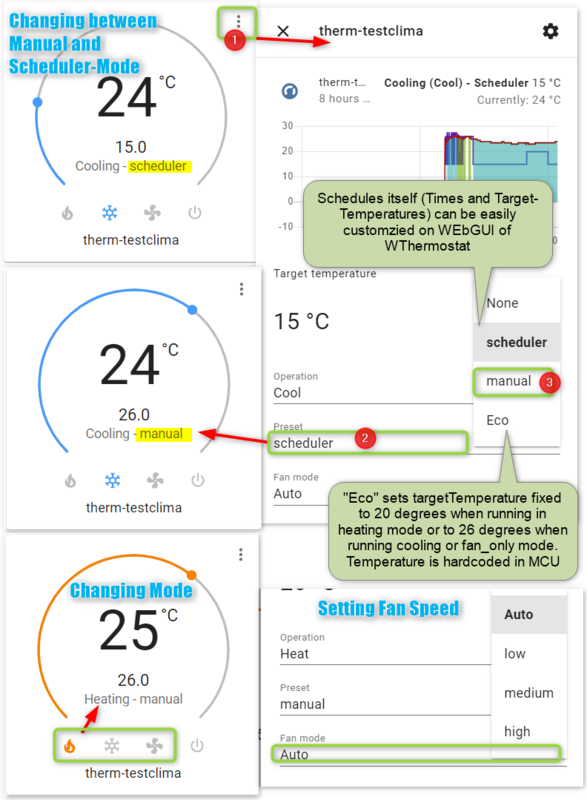
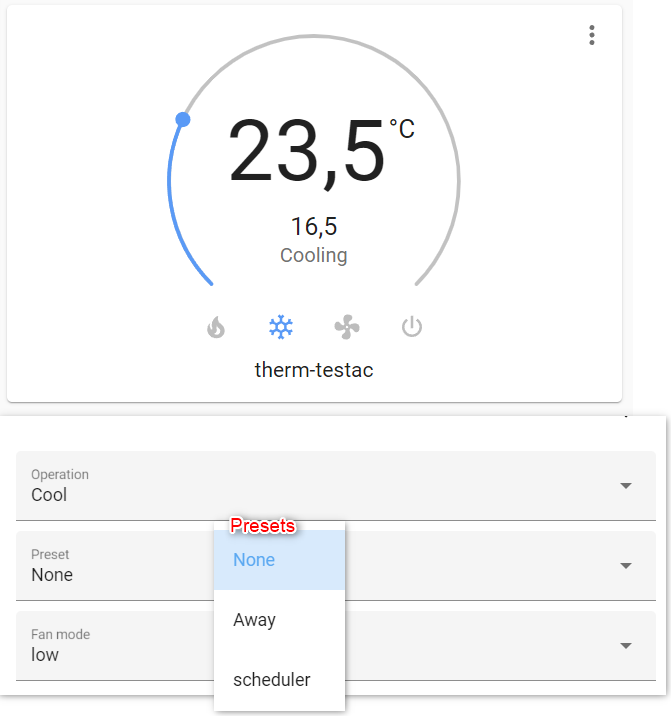
1.21
* reimplemented Away-Mode with Preset (Heating and A/C)
* fixed scheduler-Mode with Preset 'Scheduler' (A/C)
* updated docs and samples

diff --git a/WThermostat/WBecaDevice.h b/WThermostat/WBecaDevice.h
@@ -51,8 +51,10 @@ const static char MQTT_HASS_AUTODISCOVERY_CLIMATE[]         PROGMEM = R"=====(
 "temp_stat_tpl":"{{value_json.targetTemperature}}",
 "curr_temp_t":"~/stat/things/thermostat/properties",
 "curr_temp_tpl":"{{value_json.temperature}}",
-"pl_on":true,
-"pl_off":false,
+"pr_mode_cmd_t":"~/cmnd/things/thermostat/properties/preset",
+"pr_mode_stat_t":"~/stat/things/thermostat/properties",
+"pr_mode_val_tpl":"{{value_json.preset}}",
+"pr_modes":["away"],
 "min_temp":5,
 "max_temp":"35",
 "temp_step":"%s",
@@ -81,12 +83,10 @@ const static char MQTT_HASS_AUTODISCOVERY_AIRCO[]         PROGMEM = R"=====(
 "fan_mode_cmd_t":"~/cmnd/things/thermostat/properties/fanMode",
 "fan_mode_stat_t":"~/stat/things/thermostat/properties",
 "fan_mode_stat_tpl":"{{value_json.fanMode}}",
-"hold_cmd_t":"~/cmnd/things/thermostat/properties/holdState",
-"hold_stat_t":"~/stat/things/thermostat/properties",
-"hold_stat_tpl":"{{value_json.holdState}}",
-"hold_modes":["scheduler","manual","eco"],
-"pl_on":true,
-"pl_off":false,
+"pr_mode_cmd_t":"~/cmnd/things/thermostat/properties/preset",
+"pr_mode_stat_t":"~/stat/things/thermostat/properties",
+"pr_mode_val_tpl":"{{value_json.preset}}",
+"pr_modes":["away", "scheduler"],
 "min_temp":"10",
 "max_temp":"35",
 "temp_step":"%s",
@@ -178,6 +178,9 @@ const char* MODE_AUTO PROGMEM = "auto";
 const char* MODE_HEAT PROGMEM = "heat";
 const char* MODE_COOL PROGMEM = "cool";
 const char* MODE_FAN  PROGMEM = "fan_only";
+const char* PRESET_NONE PROGMEM = "none";
+const char* PRESET_AWAY PROGMEM = "away";
+const char* PRESET_SCHEDULER PROGMEM = "scheduler";
 const char* ACTION_OFF  PROGMEM = "off";
 const char* ACTION_COOLING  PROGMEM = "cooling";
 const char* ACTION_HEATING  PROGMEM = "heating";
@@ -227,6 +230,8 @@ const char* PROP_FANMODE PROGMEM = "fanMode";
 const char* TITL_FANMODE PROGMEM = "Fan";
 const char* PROP_MODE PROGMEM = "mode";
 const char* TITL_MODE PROGMEM = "Mode";
+const char* PROP_PRESET PROGMEM = "preset";
+const char* TITL_PRESET PROGMEM = "Preset";
 const char* PROP_ACTION PROGMEM = "action";
 const char* TITL_ACTION PROGMEM = "Action";
 const char* PROP_STATE PROGMEM = "state";
@@ -236,6 +241,7 @@ const char* PROP_MCUID PROGMEM = "mcuId";
 const char* ATTYPE_SCHEDULESMODE PROGMEM = "ThermostatSchedulesModeProperty";
 const char* ATTYPE_HOLDSTATE PROGMEM = "ThermostatHoldStateProperty";
 const char* ATTYPE_MODE PROGMEM = "ThermostatModeProperty";
+const char* ATTYPE_PRESET PROGMEM = "ThermostatPresetProperty";
 const char* ATTYPE_FANMODE PROGMEM = "FanModeProperty";
 const char* ATTYPE_ACTION PROGMEM = "ThermostatActionProperty";
 const char* ATTYPE_HEATINGCOOLING PROGMEM = "HeatingCoolingProperty";
@@ -489,6 +495,19 @@ public:
 		this->mode->setOnValueRequest([this](WProperty* p) {updateModeAndAction();});
 		this->mode->setMqttSendChangedValues(true);
     	this->addProperty(mode);
+
+		this->preset = new WProperty(PROP_PRESET, TITL_PRESET, STRING);
+		this->preset->setVisibility(ALL);
+		this->preset->setAtType(ATTYPE_PRESET); 
+		this->preset->addEnumString(PRESET_NONE);
+		this->preset->addEnumString(PRESET_AWAY);
+		if (getThermostatModel() == MODEL_BAC_002_ALW) {
+			this->preset->addEnumString(PRESET_SCHEDULER);
+		}
+		this->preset->setOnChange(std::bind(&WBecaDevice::presetToMcu, this, std::placeholders::_1));
+		this->preset->setOnValueRequest([this](WProperty* p) {updatePreset();});
+		this->preset->setMqttSendChangedValues(true);
+		this->addProperty(preset);
 
 		this->action = new WProperty(PROP_ACTION, TITL_ACTION, STRING);
 		this->action->setAtType(ATTYPE_ACTION); 
@@ -1416,6 +1435,7 @@ private:
     WProperty* actualTemperature;
     WProperty* actualFloorTemperature;
 	WProperty* mode;
+	WProperty* preset;
 	WProperty* action;
 	WProperty* schedulesMode;
 	WProperty* holdState;
@@ -2077,6 +2097,26 @@ private:
 		}
 	}
 
+
+	void presetToMcu(WProperty* property) {
+		network->log()->trace(F("presetToMcu %s"), property->c_str());
+		if (this->mode->equalsString(MODE_OFF)){
+			//noop
+		} else if (this->preset->equalsString(PRESET_AWAY)){
+			this->ecoMode->setBoolean(true);
+		} else if (getThermostatModel() == MODEL_BAC_002_ALW && this->preset->equalsString(PRESET_SCHEDULER)){
+			this->ecoMode->setBoolean(false);
+			this->schedulesMode->setString(SCHEDULES_MODE_AUTO);
+			this->holdState->setString(HOLD_STATE_SCHEDULER);
+		} else {
+			this->ecoMode->setBoolean(false);
+			if (getThermostatModel() == MODEL_BAC_002_ALW){
+				this->schedulesMode->setString(SCHEDULES_MODE_OFF);
+				this->holdState->setString(HOLD_STATE_MANUAL);
+			}
+		}
+	}
+
     void updateModeAndAction() {
 		if (!this->deviceOn->getBoolean()){
 			this->mode->setString(MODE_OFF);
@@ -2116,6 +2156,17 @@ private:
 			if (this->state->equalsString(STATE_OFF)){
 				this->action->setString(ACTION_IDLE);
 			} else this->action->setString(ACTION_HEATING);
+		}
+	}
+
+
+	void updatePreset() {
+		if (this->ecoMode->getBoolean()){
+			this->preset->setString(PRESET_AWAY);
+		} else if (getThermostatModel() == MODEL_BAC_002_ALW && this->schedulesMode->equalsString(SCHEDULES_MODE_AUTO)){
+			this->preset->setString(PRESET_SCHEDULER);
+		} else {
+			this->preset->setString(PRESET_NONE);
 		}
 	}
 

diff --git a/README.md b/README.md
@@ -154,9 +154,15 @@ Live WebLog Screen:
 
 ## Integration in Home Assistant
 
-![homeassistant](docs/images/homeassistant.png)  ![hass_discovery](docs/images/hass_discovery.png)
+![homeassistant](docs/images/homeassistant.png)
+![homeassistant](docs/images/hass_detail.png)
+![hass_discovery](docs/images/hass_discovery.png)
 
 ### Controlling BAC in HomeAssistant
+
+* Use Operation to Switch between 'heat', 'cool', 'fan_only' and 'off'
+* Use Preset to switch between 'None' (manual), 'Scheduler' and 'eco'
+* Changing temp disables scheduler and switches to preset 'None'
 
 ![homeassistant](docs/images/hass-bac.png)
 
@@ -213,15 +219,14 @@ climate:
     temperature_state_template: "{{value_json.targetTemperature}}"
     current_temperature_topic: "home/room/stat/things/thermostat/properties"
     current_temperature_template: "{{value_json.temperature}}"
-    away_mode_command_topic: "home/room/cmnd/things/thermostat/properties/ecoMode"
-    away_mode_state_topic: "home/room/stat/things/thermostat/properties"
-    away_mode_state_template: "{{value_json.ecoMode}}"
     mode_command_topic: "home/room/cmnd/things/thermostat/properties/mode"
     mode_state_topic: "home/room/stat/things/thermostat/properties"
     mode_state_template: "{{value_json.mode}}"
-    payload_on: true
-    payload_off: false
     modes: [ "heat", "auto", "off" ]
+    preset_mode_command_topic: "home/room/cmnd/things/thermostat/properties/preset"
+    preset_mode_state_topic: "home/room/stat/things/thermostat/properties"
+    preset_mode_value_template: "{{value_json.preset}}"
+    preset_modes: ["away"]
     min_temp: 5
     max_temp: 35
     temp_step: 0.5
@@ -256,12 +261,6 @@ climate:
     fan_mode_command_topic: "home/bedroom/cmnd/things/thermostat/properties/fanMode"
     fan_mode_state_topic: "home/bedroom/stat/things/thermostat/properties"
     fan_mode_state_template: "{{value_json.fanMode}}"
-    hold_command_topic: "home/bedroom/cmnd/things/thermostat/properties/holdState"
-    hold_state_topic: "home/bedroom/stat/things/thermostat/properties"
-    hold_state_template: "{{value_json.holdState}}"
-    hold_modes: [ "scheduler", "manual","eco" ]
-    payload_on: true
-    payload_off: false
     modes: [ "heat", "cool", "fan_only", "off" ]
     min_temp: 16
     max_temp: 32
@@ -280,10 +279,10 @@ climate:
[1 lines of base64/hex data omitted]
   temperature_state_topic: "home/wohnzimmer/stat/things/thermostat/properties"
   current_temperature_topic: "home/wohnzimmer/stat/things/thermostat/properties"
-  away_mode_command_topic: "home/wohnzimmer/cmnd/things/thermostat/properties/ecoMode"
-  away_mode_state_topic: "home/wohnzimmer/stat/things/thermostat/properties"
   mode_command_topic: "home/wohnzimmer/cmnd/things/thermostat/properties/mode"
   mode_state_topic: "home/wohnzimmer/stat/things/thermostat/properties"
+  preset_mode_command_topic: "home/wohnzimmer/cmnd/things/thermostat/properties/preset"
+  preset_mode_state_topic: "home/wohnzimmer/stat/things/thermostat/properties"
   <<: &commonbeca
     payload_available: "Online"
     payload_not_available: "Offline"
@@ -292,9 +291,9 @@ climate:
     current_temperature_template: "{{value_json.temperature}}"
     mode_state_template: "{{value_json.mode}}"
     away_mode_state_template: "{{value_json.ecoMode}}"
-    payload_on: true
-    payload_off: false
     modes: [ "heat", "auto", "off" ]
+    preset_mode_value_template: "{{value_json.preset}}"
+    preset_modes: ["away"]
     min_temp: 5
     max_temp: 35
     temp_step: 0.5
@@ -310,6 +309,8 @@ climate:
   away_mode_state_topic: "home/flur/stat/things/thermostat/properties"
   mode_command_topic: "home/flur/cmnd/things/thermostat/properties/mode"
   mode_state_topic: "home/flur/stat/things/thermostat/properties"
+  preset_mode_command_topic: "home/flur/cmnd/things/thermostat/properties/preset"
+  preset_mode_state_topic: "home/flur/stat/things/thermostat/properties"
   <<: *commonbeca
 - platform: mqtt
   name: WC_Thermostat
@@ -322,6 +323,8 @@ climate:
   away_mode_state_topic: "home/wc/stat/things/thermostat/properties"
   mode_command_topic: "home/wc/cmnd/things/thermostat/properties/mode"
   mode_state_topic: "home/wc/stat/things/thermostat/properties"
+  preset_mode_command_topic: "home/wc/cmnd/things/thermostat/properties/preset"
+  preset_mode_state_topic: "home/wc/stat/things/thermostat/properties"
   <<: *commonbeca
 ```
 
@@ -340,7 +343,7 @@ There is also a detailed view available:
 
 ## Device-Functions
 
-### Json structures
+### JSON structures
 
 The software provides different messages:
 
@@ -481,6 +484,10 @@ mosquitto_sub -h mqtt -v -t "home/test/tele/log/#"
 mosquitto_pub -t "home/test/cmnd/things/thermostat/mcucommand" -m "55 aa 00 1c 00 08 01 14 09 0c 10 30 0f 06"
 
 ```
+
+### MQTT Explorer
+
+For MQTT Troubleshooting i suggest MQTT Explorer, which can be found at <https://github.com/thomasnordquist/MQTT-Explorer>
 
 ## How it works
 

diff --git a/Changes.md b/Changes.md
@@ -1,5 +1,24 @@
 # Changelog
 
+## Version 1.21-fas
+
+* reimplemented Away-Mode with Preset (Heating and A/C)
+* fixed scheduler-Mode with Preset 'Scheduler' (A/C)
+* updated docs and samples
+
+## Version 1.20-fas
+
+### Changes in this Release
+
+* HA 2022.9 compatibility #153, #146. Thanks to @labodj
+* Update to latest dependencies and compatibility @labodj/@fashberg
+* decreased minimum temp by @zawasp  / #98
+* removed away-mode @jressel01 #148
+
+### And Build CI updates
+
+* moved from travis-ci to github-actions @fashberg
+
 ## Version 1.19-fas
 
 * Fix/Enhancement #54: If enabled, all single Properties are sent out every notification interval, not only if changed
